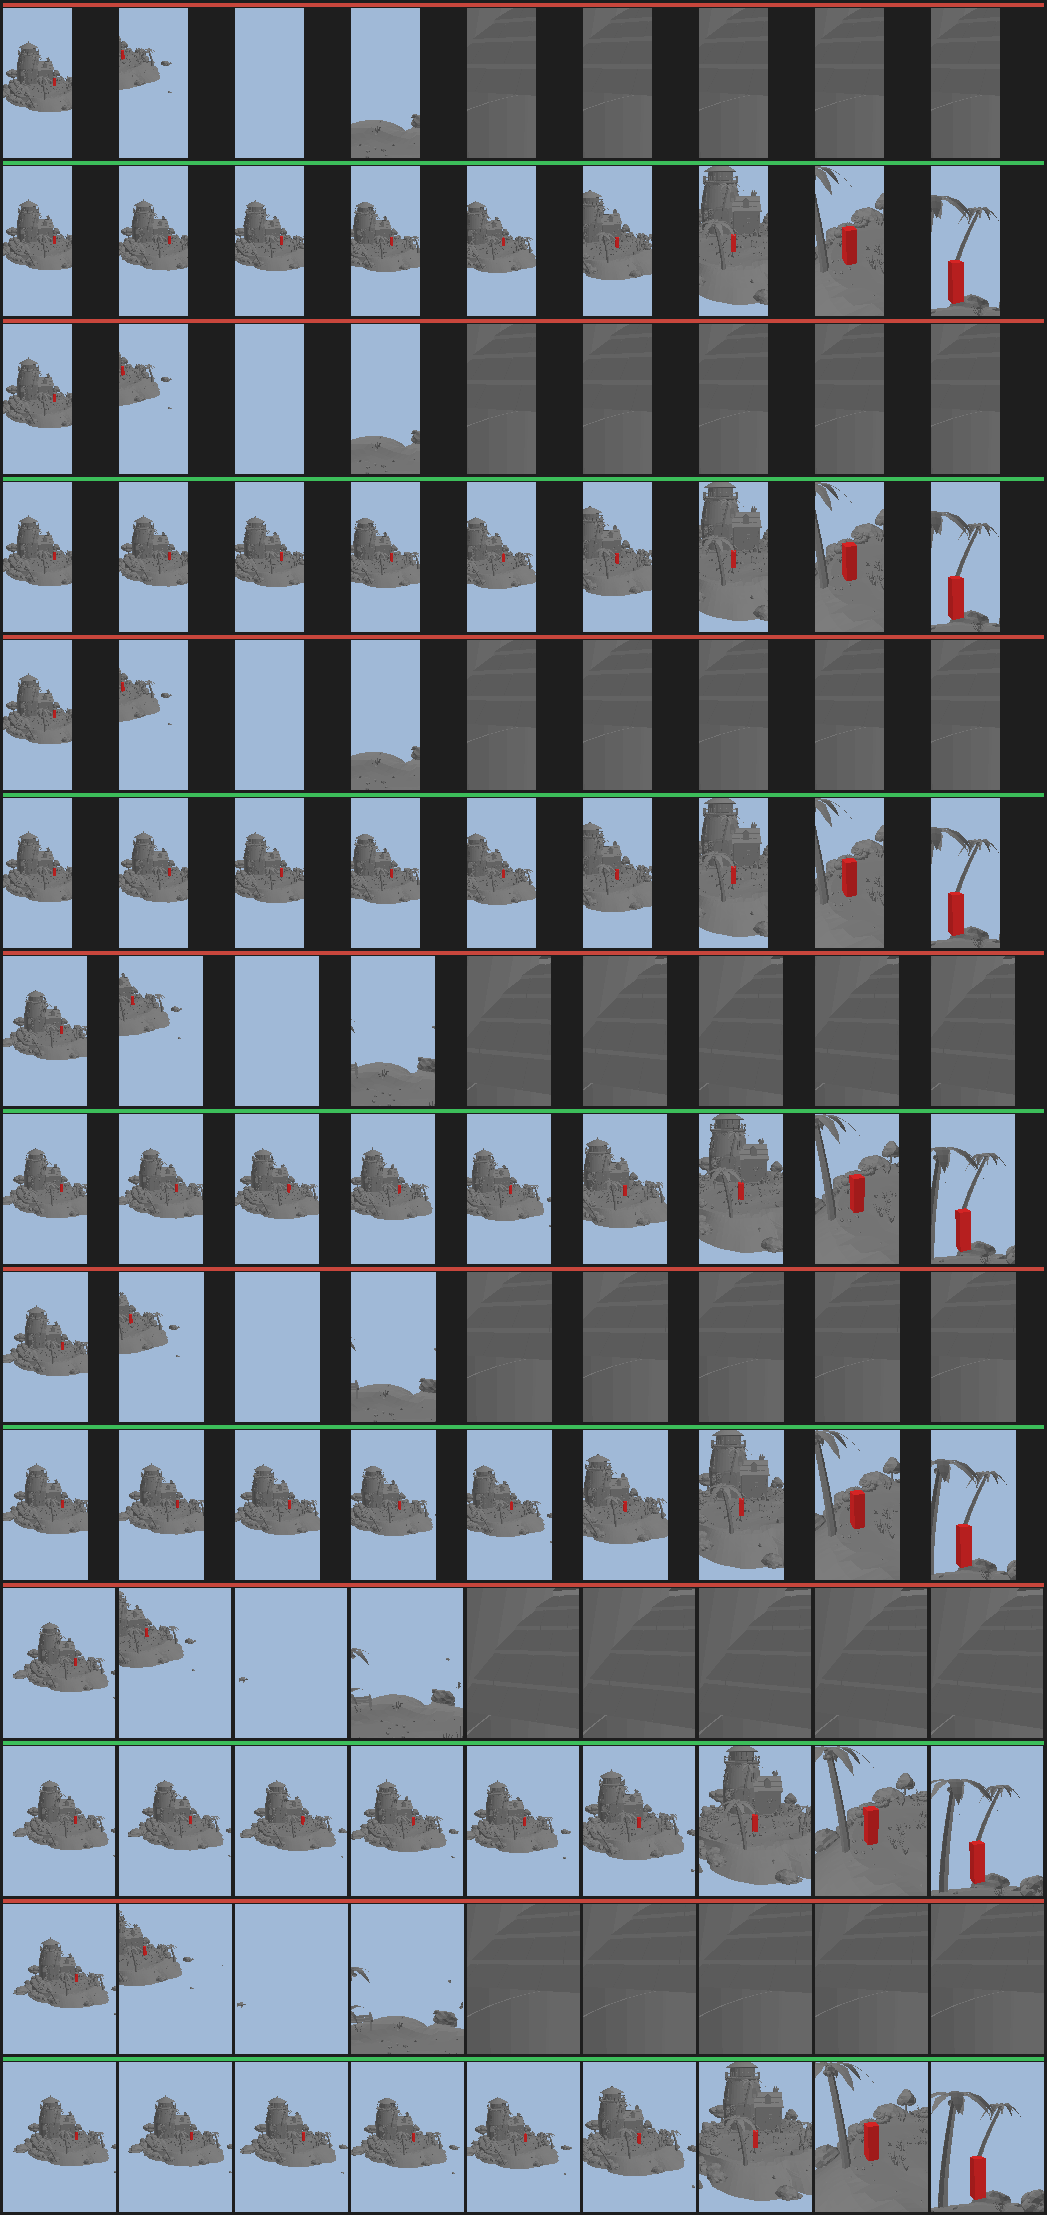
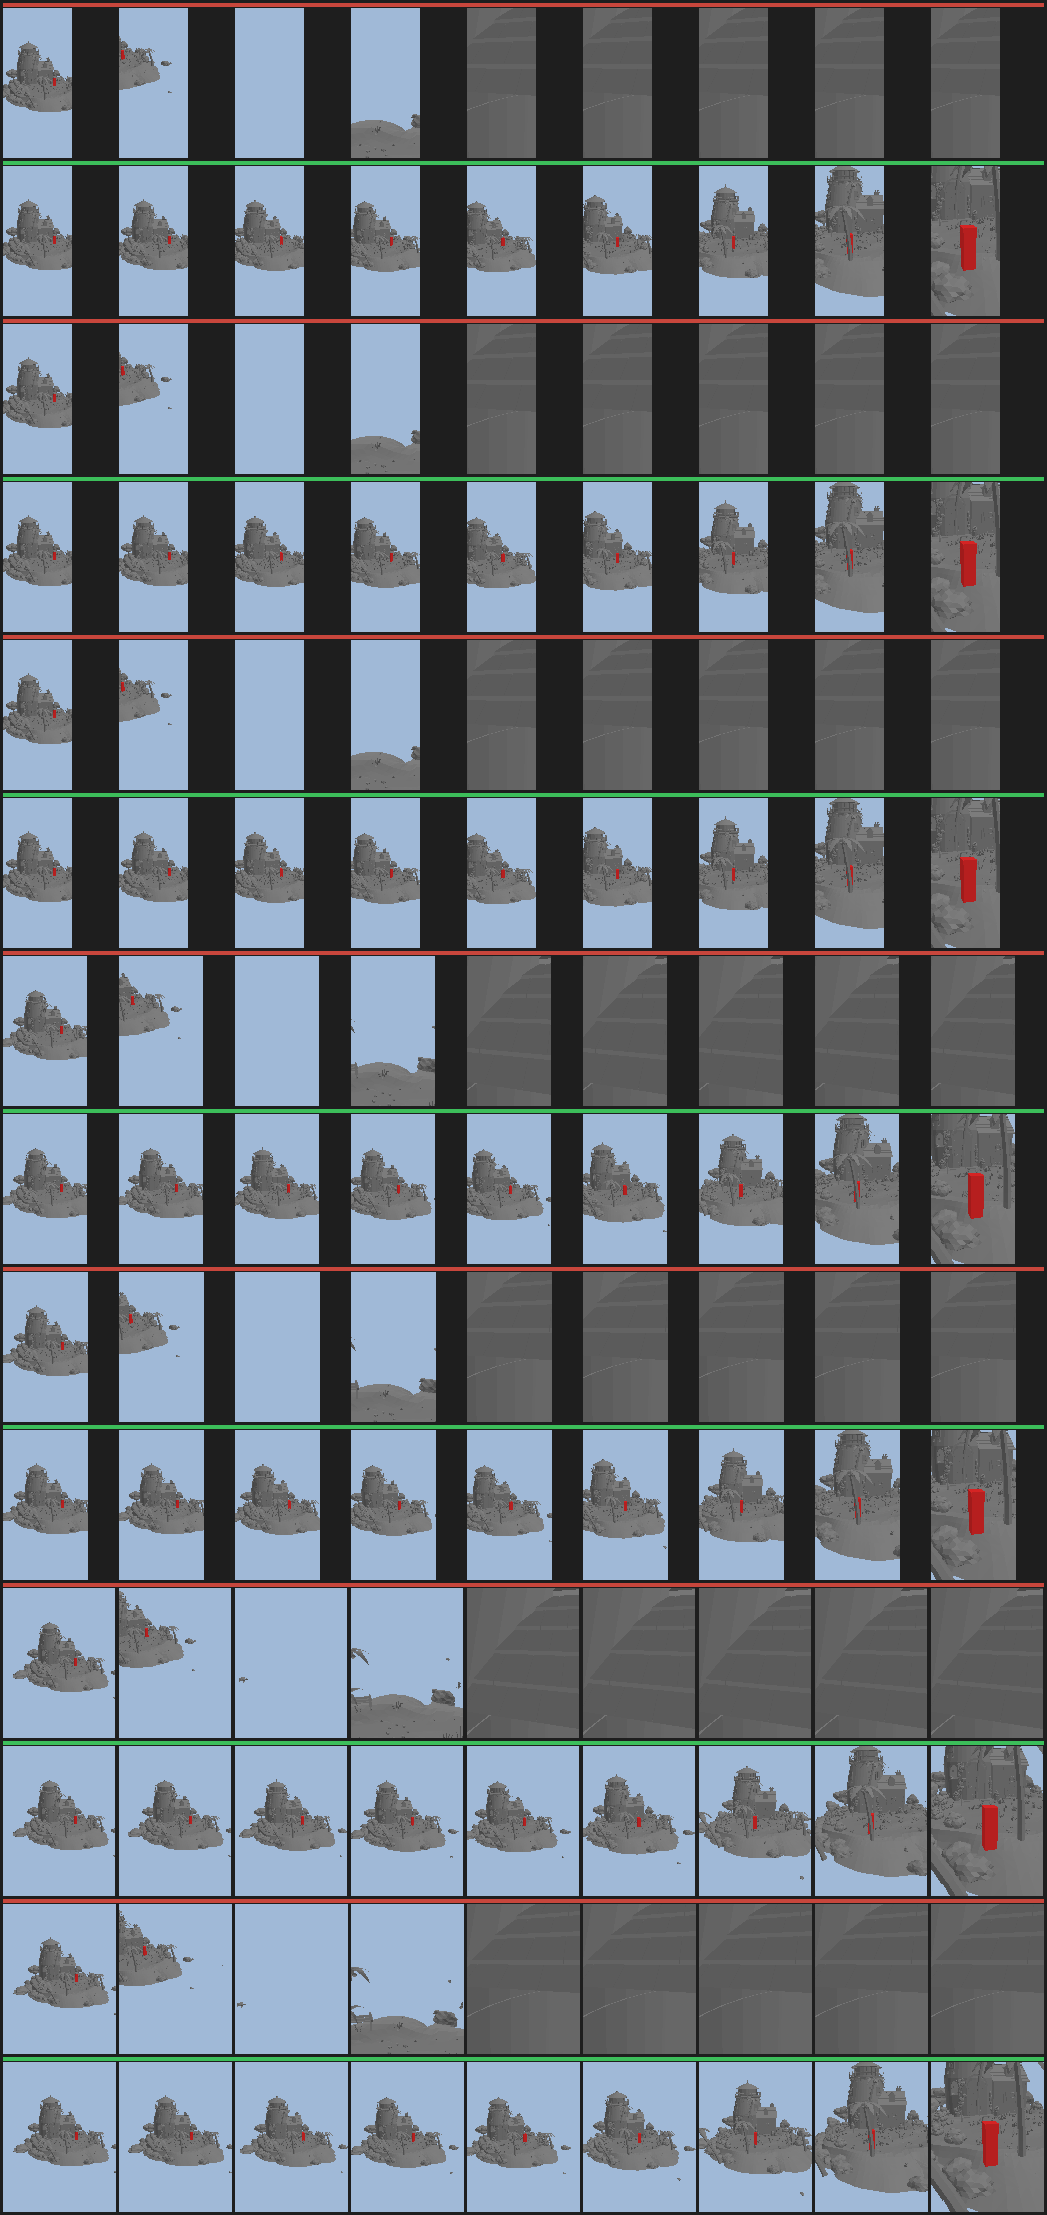
cine: L04 exit on the island v2.2 hero axis + skinned-palm gate
- occlusion/skin-island-palms.py: rest-pose LBS of the 4 skinned room palms (sha-pinned room glb); young_01 trunk x2.6-3.5 z2.25-3.05 = 场景设计部's rendered numbers
- gate uses skinned palms; PALM_MOVE=1 / PUSHIN=T2 variants; exit pose >=3 m from geometry, >=1.5 m above ground
- IslandStageLens end:'hero' (az -15, 6 m, +3.2 m, bow 8 m): old follow@I6 was 1.62 m from palm_young_01 (1.38 m after the move)

diff --git a/creator-build-project/assets/scripts/region/IslandStageLens.ts b/creator-build-project/assets/scripts/region/IslandStageLens.ts
@@ -5,7 +5,10 @@
  *  (smoothed) position, ending exactly on the follow pose at I6 before she boards. Limits (Grok Bot, per real dt, 7 screens):
  *  yaw/pitch <= 90 deg/s, angular accel p99 <= 200 deg/s^2, <= 8 m/s, <= 0.5 m/frame, fov <= 1.5 deg/frame; gate: island-stage04-lens. */
 import type {Pose,Vec} from '../world-r1/WorldFlowCore';
-export const ISLAND_STAGE_LENS=Object.freeze({preS:0.4,rampS:1.0,endS:0.2,arcM:8,arcY:4.5,k1:0.8,k2:1.0,smooth:4,walkMps:1.2,panInS:0.6,herLookM:1.1});
+export const ISLAND_STAGE_LENS=Object.freeze({preS:0.4,rampS:1.0,endS:0.2,arcM:8,arcY:4.5,k1:0.8,k2:1.0,smooth:4,walkMps:1.2,panInS:0.6,herLookM:1.1,
+ /* exit pose (b20 7eecdca8, skinned palms): 'hero' = on the island v2.2 hero axis, sea side of I6, she walks toward the lens with the
+    lighthouse behind her; >= 3 m from all (skinned) geometry. The old follow@I6 sat 1.62 m (1.38 m after the palm move) from palm_young_01. */
+ end:'hero' as 'hero'|'follow',heroAzDeg:-15,heroDistM:6,heroUpM:3.2,heroAimM:1.2,heroBowM:8});
 type V=[number,number,number];
 const sub=(a:readonly number[],b:readonly number[]):V=>[a[0]-b[0],a[1]-b[1],a[2]-b[2]];
 const unit=(v:readonly number[]):V=>{const n=Math.hypot(v[0],v[1],v[2])||1;return [v[0]/n,v[1]/n,v[2]/n];};
@@ -17,17 +20,21 @@ function along(path:readonly Vec[],c:readonly number[],d:number):V{const L=c[c.l
 function herAt(path:readonly Vec[],c:readonly number[],t:number):V{const v=ISLAND_STAGE_LENS.walkMps,o:V=[0,0,0];let ws=0;for(let k=-10;k<=10;k++){const w=1-Math.abs(k)/11,q=along(path,c,(t+k*0.06)*v);o[0]+=q[0]*w;o[1]+=q[1]*w;o[2]+=q[2]*w;ws+=w;}return [o[0]/ws,o[1]/ws+ISLAND_STAGE_LENS.herLookM,o[2]/ws];}
 /** Her heading at the walk end (radians, atan2(dx,dz)), averaged over the last 1.2 m. */
 export function endHeading(path:readonly Vec[]):number{const c=cum(path),L=c[c.length-1],a=along(path,c,L-1.2),b=along(path,c,L);return Math.atan2(b[0]-a[0],b[2]-a[2]);}
+/** The hero-axis exit pose for a walk ending at C (fov kept from the follow pose). */
+export function heroEnd(walk:readonly Vec[],fov=48):Pose{const K=ISLAND_STAGE_LENS,C=walk[walk.length-1],a=K.heroAzDeg*Math.PI/180;
+ return {position:[C[0]+K.heroDistM*Math.sin(a),C[1]+K.heroUpM,C[2]+K.heroDistM*Math.cos(a)] as Vec,target:[C[0],C[1]+K.heroAimM,C[2]] as Vec,fovVerticalDeg:fov};}
 export type StageLens={seconds:number;preS:number;at:(t:number)=>Pose;end:Pose};
 /** DEPARTURE. from = live lens on the reveal frame; walk = her planned walk (world); follow = the follow pose at the walk end. t=0 is the
  *  reveal; she starts walking at preS; the lens lands on follow at preS+walkS-endS and holds. */
-export function islandDepartLens(from:Pose,walk:readonly Vec[],follow:Pose):StageLens{
- const K=ISLAND_STAGE_LENS,c=cum(walk),walkS=c[c.length-1]/K.walkMps,W=K.preS+walkS-K.endS,C=walk[walk.length-1],R=K.arcM,P=from.position;
+export function islandDepartLens(from:Pose,walk:readonly Vec[],follow0:Pose):StageLens{
+ const K=ISLAND_STAGE_LENS,hero=K.end==='hero',follow=hero?heroEnd(walk,follow0.fovVerticalDeg??48):follow0,c=cum(walk),walkS=c[c.length-1]/K.walkMps,W=K.preS+walkS-K.endS,C=walk[walk.length-1],R=K.arcM,P=from.position;
  const az=(p:readonly number[])=>Math.atan2(p[0]-C[0],p[2]-C[2]);const D=Math.hypot(P[0]-C[0],P[2]-C[2]);
  let a0=az(P)+(D>R?Math.acos(R/D):0),a1=az(follow.position);while(a1<a0)a1+=2*Math.PI;
  const Wa:V=[C[0]+R*Math.sin(a0),K.arcY,C[2]+R*Math.cos(a0)];let pts:V[]=[];
- for(let i=0;i<=30;i++){const u=i/30;pts.push([P[0]+(Wa[0]-P[0])*u,P[1]+(Wa[1]-P[1])*u,P[2]+(Wa[2]-P[2])*u]);}
+ if(hero){const Q=follow.position,lx=-(Q[2]-P[2]),lz=Q[0]-P[0],ln=Math.hypot(lx,lz)||1;for(let i=0;i<=60;i++){const u=i/60,b=K.heroBowM*Math.sin(Math.PI*u)/ln;pts.push([P[0]+(Q[0]-P[0])*u+lx*b,P[1]+(Q[1]-P[1])*u,P[2]+(Q[2]-P[2])*u+lz*b]);}}
+ else{for(let i=0;i<=30;i++){const u=i/30;pts.push([P[0]+(Wa[0]-P[0])*u,P[1]+(Wa[1]-P[1])*u,P[2]+(Wa[2]-P[2])*u]);}
  const rE=Math.hypot(follow.position[0]-C[0],follow.position[2]-C[2]);
- for(let i=1;i<=60;i++){const u=i/60,a=a0+(a1-a0)*u,r=R+(rE-R)*mj(u);pts.push([C[0]+r*Math.sin(a),K.arcY+(follow.position[1]-K.arcY)*mj(u),C[2]+r*Math.cos(a)]);}
+ for(let i=1;i<=60;i++){const u=i/60,a=a0+(a1-a0)*u,r=R+(rE-R)*mj(u);pts.push([C[0]+r*Math.sin(a),K.arcY+(follow.position[1]-K.arcY)*mj(u),C[2]+r*Math.cos(a)]);}}
  for(let k=0;k<K.smooth;k++){const q:V[]=[pts[0]];for(let i=0;i<pts.length-1;i++){const a=pts[i],b=pts[i+1];q.push([.75*a[0]+.25*b[0],.75*a[1]+.25*b[1],.75*a[2]+.25*b[2]],[.25*a[0]+.75*b[0],.25*a[1]+.75*b[1],.25*a[2]+.75*b[2]]);}q.push(pts[pts.length-1]);pts=q;}
  pts[pts.length-1]=[follow.position[0],follow.position[1],follow.position[2]];
  const pc=cum(pts),len=pc[pc.length-1],RA=K.rampS,v=1/(W-RA);

diff --git a/tools/journey-integration/occlusion/skin-island-palms.py b/tools/journey-integration/occlusion/skin-island-palms.py
@@ -1,0 +1,44 @@
+import sys,json,struct,numpy as np,DracoPy
+f=sys.argv[1];d=open(f,'rb').read();l=struct.unpack('<I',d[12:16])[0];j=json.loads(d[20:20+l]);bo=20+l;bl=struct.unpack('<I',d[bo:bo+4])[0];bin_=d[bo+8:bo+8+bl]
+N=j['nodes']
+def trs(n):
+  if 'matrix' in n: return np.array(n['matrix']).reshape(4,4).T
+  t=n.get('translation',[0,0,0]);r=n.get('rotation',[0,0,0,1]);s=n.get('scale',[1,1,1]);x,y,z,w=r
+  R=np.array([[1-2*(y*y+z*z),2*(x*y-z*w),2*(x*z+y*w)],[2*(x*y+z*w),1-2*(x*x+z*z),2*(y*z-x*w)],[2*(x*z-y*w),2*(y*z+x*w),1-2*(x*x+y*y)]])
+  M=np.eye(4);M[:3,:3]=R*np.array(s);M[:3,3]=t;return M
+W={}
+def walk(i,P):
+  W[i]=P@trs(N[i])
+  for c in N[i].get('children',[]):walk(c,W[i])
+for r in j['scenes'][j.get('scene',0)]['nodes']:walk(r,np.eye(4))
+def acc(i):
+  a=j['accessors'][i];v=j['bufferViews'][a['bufferView']];c={'SCALAR':1,'VEC4':4,'MAT4':16,'VEC3':3}[a['type']]
+  return np.frombuffer(bin_,dtype=np.float32,count=a['count']*c,offset=v.get('byteOffset',0)+a.get('byteOffset',0)).reshape(a['count'],c)
+out={}
+for i,n in enumerate(N):
+  if 'palm' not in n.get('name','') or 'mesh' not in n: continue
+  pr=j['meshes'][n['mesh']]['primitives'][0];ext=pr['extensions']['KHR_draco_mesh_compression'];v=j['bufferViews'][ext['bufferView']]
+  m=DracoPy.decode(bin_[v.get('byteOffset',0):v.get('byteOffset',0)+v['byteLength']])
+  ids=ext['attributes'];att={}
+  for a in m.attributes:
+    for k,u in ids.items():
+      if a['unique_id']==u: att[k]=np.array(a['data'])
+  P=np.array(m.points).reshape(-1,3);P=np.c_[P,np.ones(len(P))]
+  unsk=(W[i]@P.T).T[:,:3]
+  if 'skin' in n:
+    sk=j['skins'][n['skin']];IB=acc(sk['inverseBindMatrices']).reshape(-1,4,4).transpose(0,2,1)
+    JM=np.array([W[jn]@IB[k] for k,jn in enumerate(sk['joints'])])
+    J=att['JOINTS_0'].astype(int).reshape(len(P),4);Wt=att['WEIGHTS_0'].reshape(len(P),4)
+    M=np.einsum('vk,vkab->vab',Wt,JM[J]);sk_=np.einsum('vab,vb->va',M,P)[:,:3]
+  else: sk_=unsk
+  out[n['name']]={'unskinned':unsk,'skinned':sk_,'faces':np.array(m.faces).reshape(-1,3)}
+  def bb(a):return [list(np.round(a.min(0),2)),list(np.round(a.max(0),2))]
+  t=sk_[sk_[:,1]<sk_[:,1].min()+1.2]
+  print(n['name'],'unskinned',bb(unsk),'skinned',bb(sk_),'trunk(y<1.2 above base) xz',bb(t[:,[0,2]]))
+np.save('/workspace/skin/palms.npy',{k:{kk:vv for kk,vv in v.items()} for k,v in out.items()},allow_pickle=True)
+import hashlib,gzip
+res={'glb':'static_seat_preview/room/room_no_original_chair.glb','sha256':hashlib.sha256(d).hexdigest(),'note':'rest-pose linear-blend skinning (W_joint*IBM); lib-glb/bake ignore skins','objects':{}}
+for k,v in out.items():
+  t=v['skinned'][v['faces']].reshape(-1).astype(np.float32)
+  res['objects'][k]=[round(float(x),4) for x in t]
+open(sys.argv[2],'wb').write(gzip.compress(json.dumps(res).encode()))
